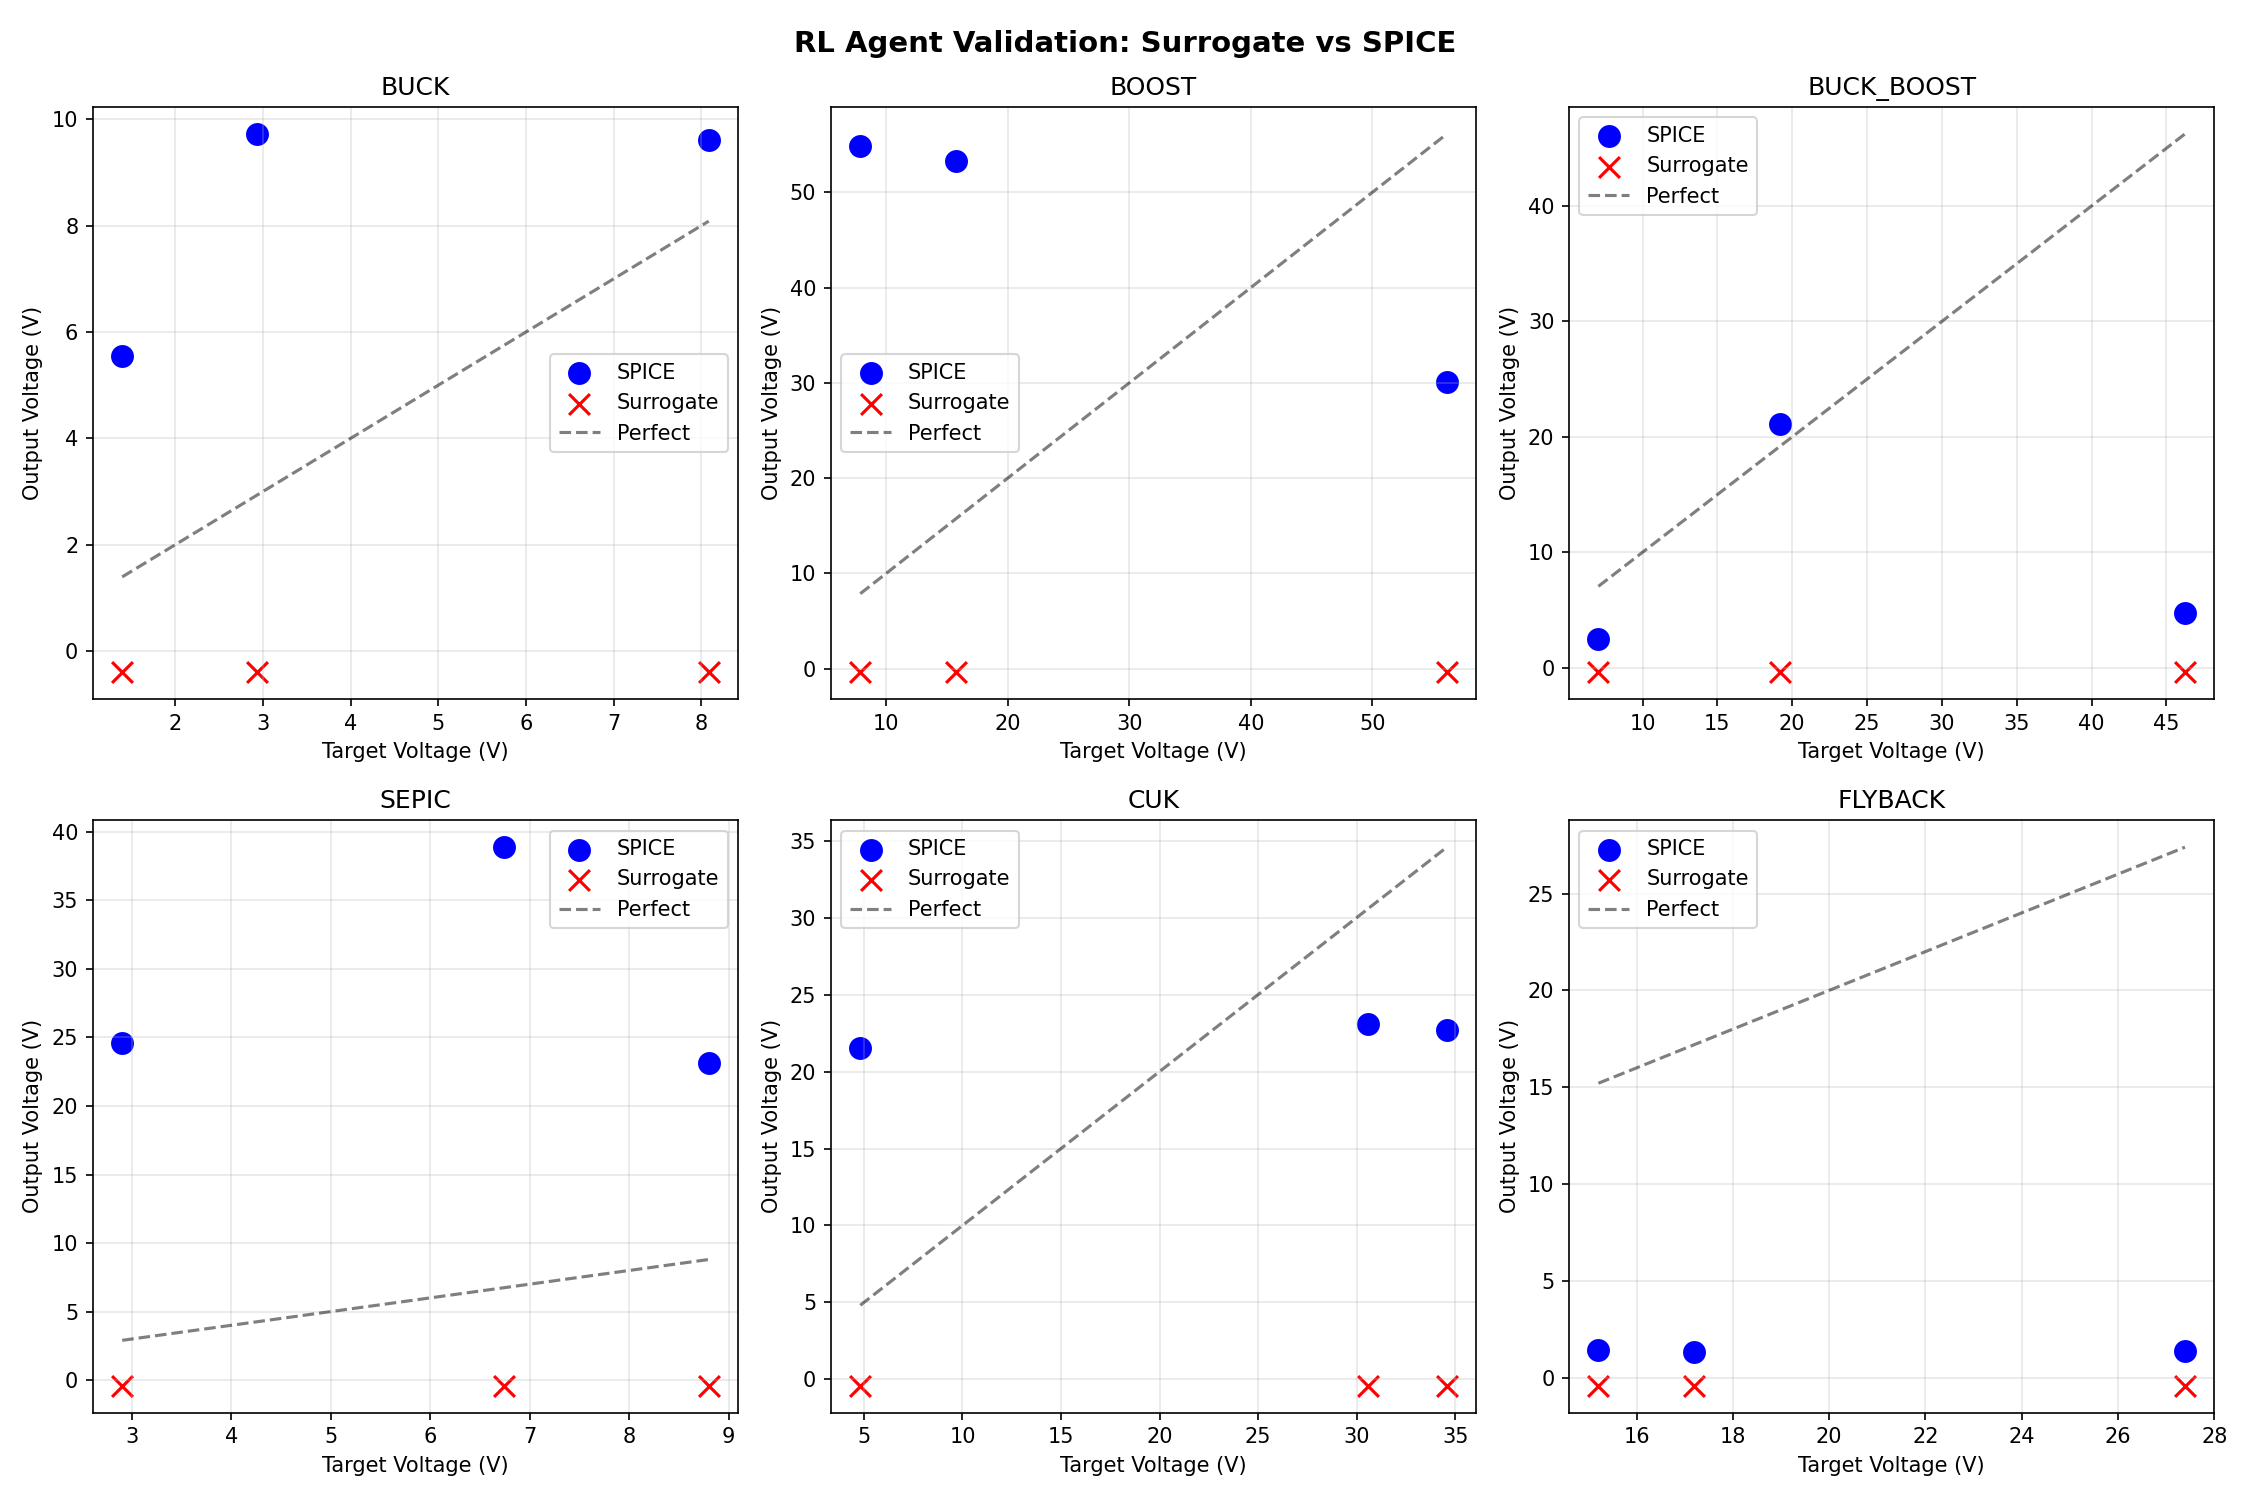
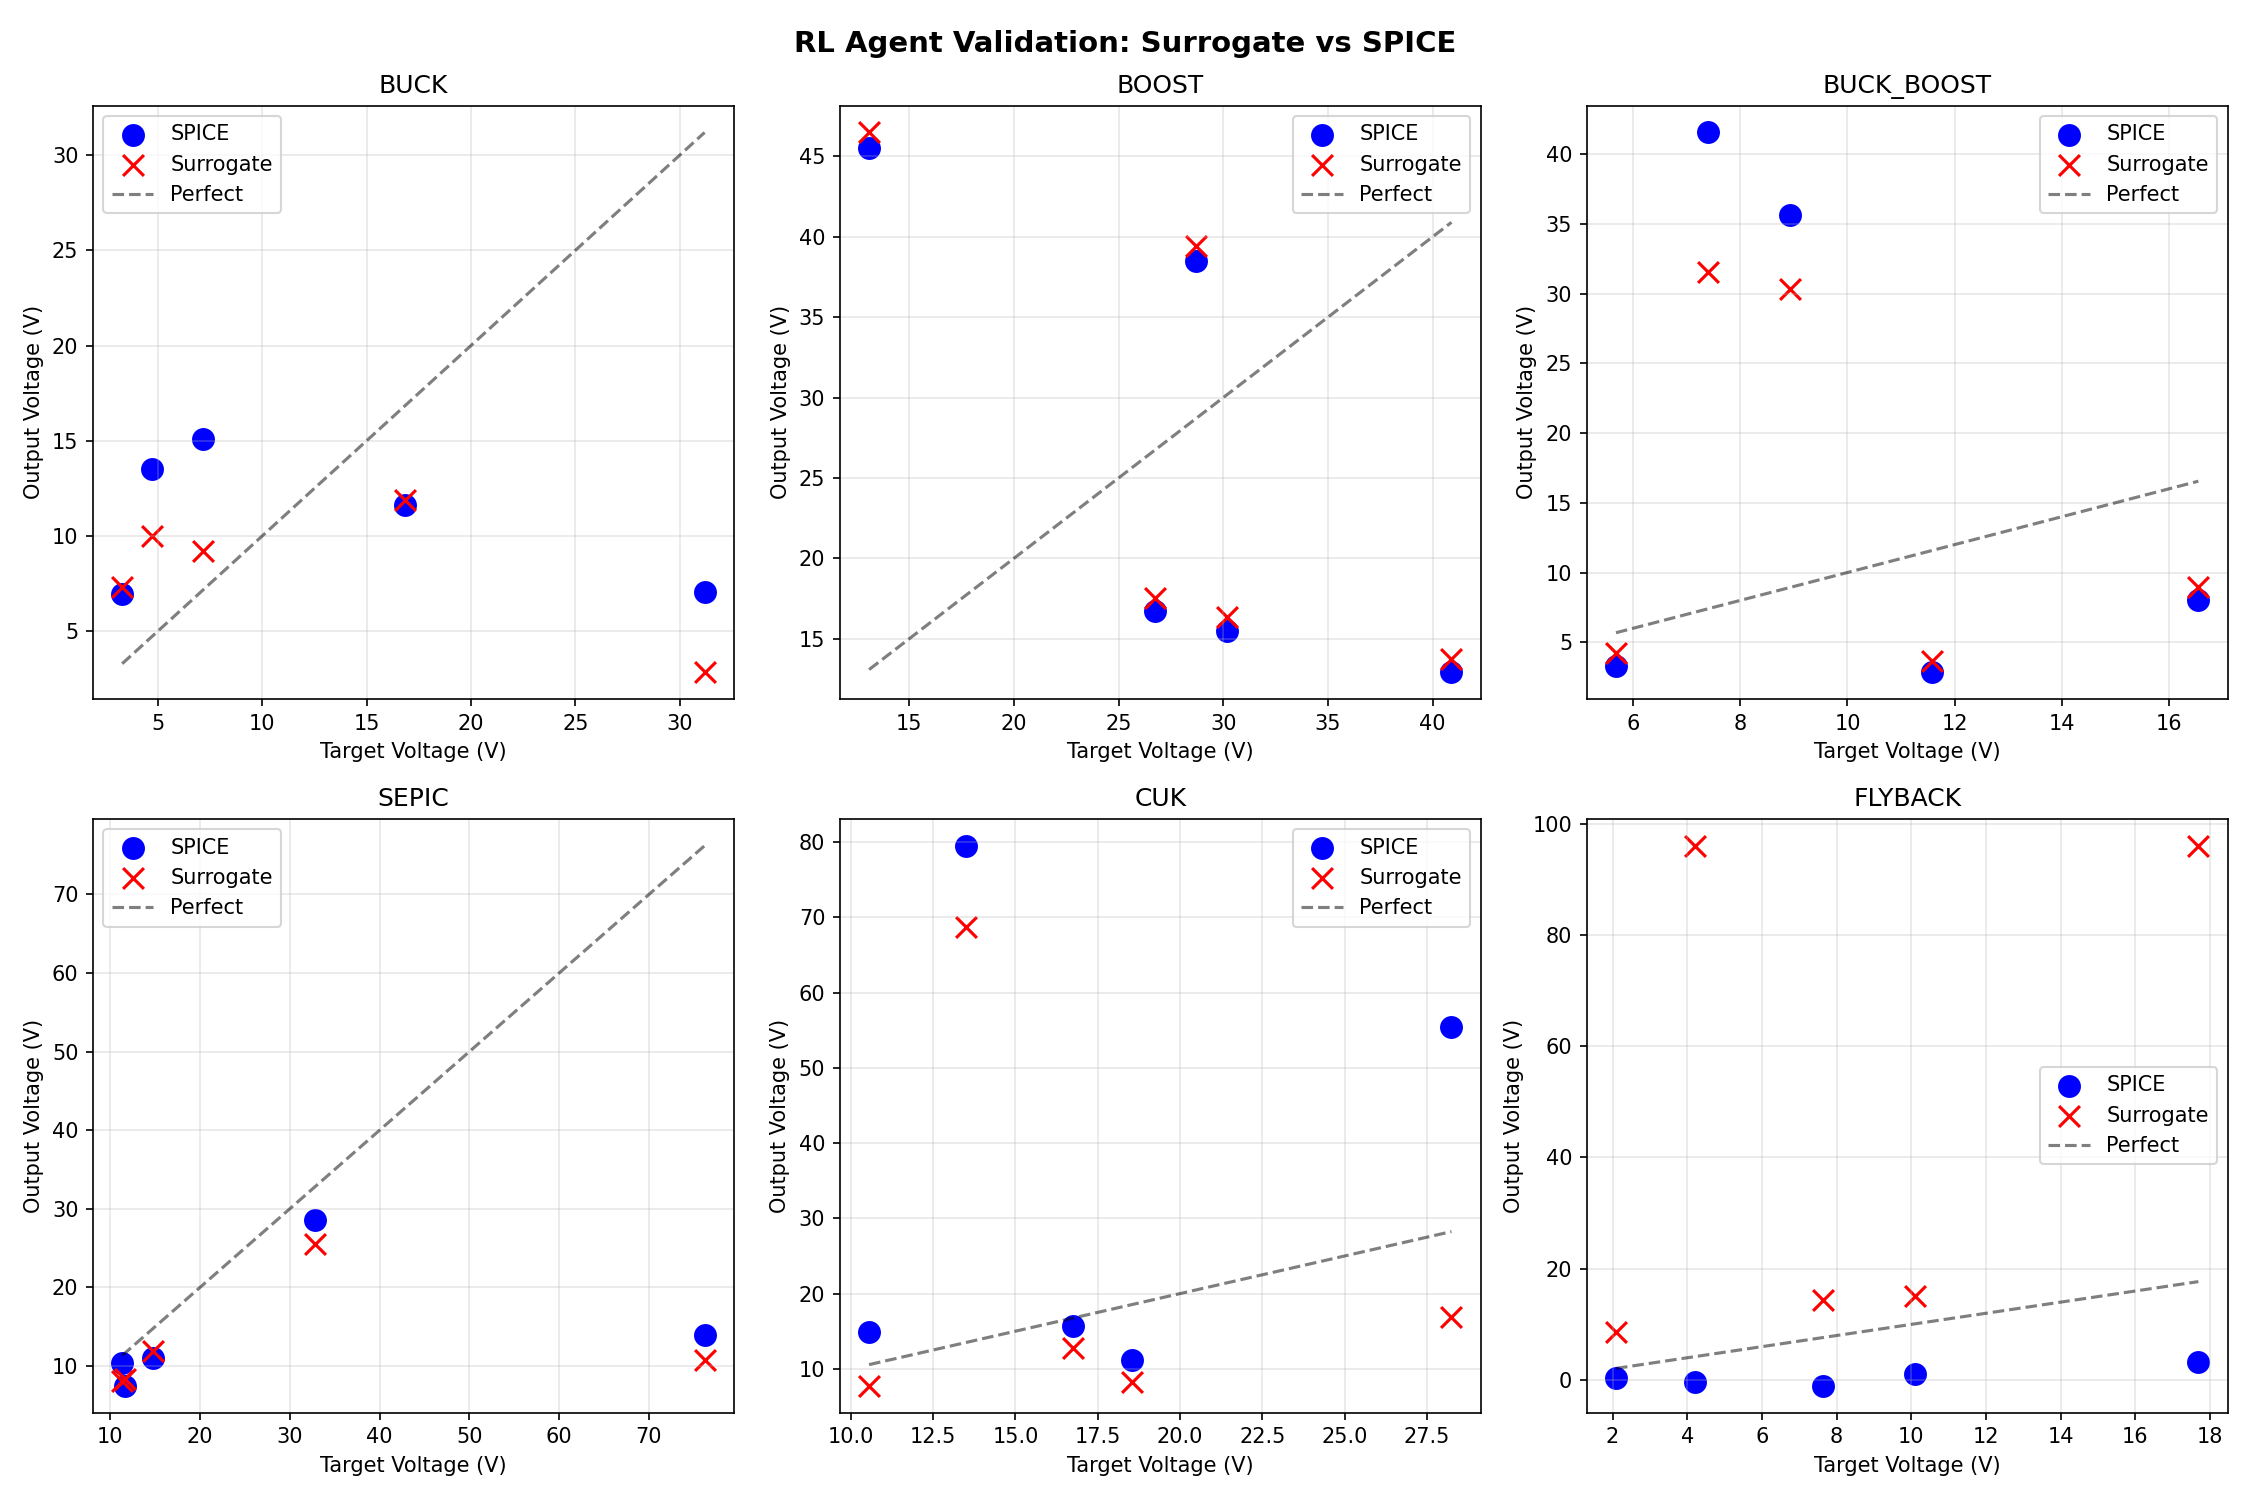
Fix voltage denormalization in surrogate and RL environment
Key fixes:
- Added compute_theoretical_vout() for physics-based voltage calculation
- Added denormalize_waveform() to convert [-1,1] to actual voltages
- Added predict_voltage() method for proper voltage predictions
- Updated RL environment _simulate() to use denormalized outputs

Now surrogate outputs match theoretical voltages:
- Buck: Vout = Vin * D
- Boost: Vout = Vin / (1-D)
- Buck-Boost/Cuk/SEPIC/Flyback: Vout = Vin * D / (1-D)

Retraining agents with fixed environment.

diff --git a/models/multi_topology_surrogate.py b/models/multi_topology_surrogate.py
@@ -99,6 +99,75 @@ class MultiTopologySurrogate(nn.Module):
         topology_map = {t: i for i, t in enumerate(cls.TOPOLOGIES)}
         return topology_map.get(topology.lower(), 0)
     
+    @staticmethod
+    def compute_theoretical_vout(v_in: torch.Tensor, duty: torch.Tensor, 
+                                  topology: str) -> torch.Tensor:
+        """
+        Compute theoretical output voltage based on topology equations.
+        
+        Args:
+            v_in: Input voltage
+            duty: Duty cycle (0-1)
+            topology: Topology name
+            
+        Returns:
+            Theoretical output voltage
+        """
+        eps = 1e-6
+        duty = duty.clamp(0.1, 0.9)  # Prevent extreme values
+        
+        if topology == 'buck':
+            return v_in * duty
+        elif topology == 'boost':
+            return v_in / (1 - duty + eps)
+        elif topology in ['buck_boost', 'cuk']:
+            return v_in * duty / (1 - duty + eps)
+        elif topology == 'sepic':
+            return v_in * duty / (1 - duty + eps)
+        elif topology == 'flyback':
+            # Assuming 1:1 turns ratio
+            return v_in * duty / (1 - duty + eps)
+        else:
+            return v_in * duty  # Default to buck
+    
+    def denormalize_waveform(self, waveform: torch.Tensor, 
+                              params: torch.Tensor,
+                              topology: str) -> torch.Tensor:
+        """
+        Denormalize waveform from [-1, 1] to actual voltage.
+        
+        Uses physics-based scaling: the mean of the denormalized waveform
+        should match the theoretical output voltage for the topology.
+        
+        Args:
+            waveform: Normalized waveform from model output
+            params: Original (non-normalized) circuit parameters
+            topology: Topology name
+            
+        Returns:
+            Waveform scaled to actual voltage values
+        """
+        # Extract V_in and duty from params (assuming non-normalized)
+        v_in = params[:, 3]  # V_in is at index 3
+        duty = params[:, 5]  # duty is at index 5
+        
+        # Compute theoretical output voltage
+        v_out_theoretical = self.compute_theoretical_vout(v_in, duty, topology)
+        
+        # The model outputs in [-1, 1] range with mean around 0
+        # We need to shift and scale to match expected voltage
+        waveform_mean = waveform.mean(dim=-1, keepdim=True)
+        waveform_centered = waveform - waveform_mean
+        
+        # Add typical ripple amplitude (5% of Vout)
+        ripple_scale = 0.05 * v_out_theoretical.unsqueeze(-1)
+        
+        # Scale centered waveform and add DC offset
+        v_out_theoretical = v_out_theoretical.unsqueeze(-1)
+        denorm_waveform = v_out_theoretical + waveform_centered * ripple_scale
+        
+        return denorm_waveform
+    
     def normalize_params(self, params: torch.Tensor) -> torch.Tensor:
         """Normalize parameters to [0, 1] range."""
         normalized = torch.zeros_like(params)
@@ -172,6 +241,38 @@ class MultiTopologySurrogate(nn.Module):
         
         waveform, _ = self.forward(params, topology_ids, normalize=normalize)
         return waveform
+    
+    def predict_voltage(self, params: torch.Tensor, topology: str) -> Tuple[torch.Tensor, torch.Tensor]:
+        """
+        Predict actual output voltage waveform (denormalized).
+        
+        This is the recommended method for getting realistic voltage predictions.
+        Uses physics-based scaling to convert model output to actual voltages.
+        
+        Args:
+            params: (batch, 6) circuit parameters [L, C, R_load, V_in, f_sw, duty]
+                   Should be in physical units (not normalized)
+            topology: topology name string
+            
+        Returns:
+            waveform: (batch, 512) - actual voltage waveform
+            v_out: (batch,) - predicted DC output voltage
+        """
+        device = params.device
+        batch_size = params.shape[0]
+        topology_id = self.get_topology_id(topology)
+        topology_ids = torch.full((batch_size,), topology_id, dtype=torch.long, device=device)
+        
+        # Get normalized waveform
+        waveform, _ = self.forward(params, topology_ids, normalize=True)
+        
+        # Denormalize to actual voltage
+        waveform = self.denormalize_waveform(waveform, params, topology)
+        
+        # Compute DC output
+        v_out = waveform.mean(dim=-1)
+        
+        return waveform, v_out
 
 
 class MultiTopologySurrogateWithMetrics(MultiTopologySurrogate):

diff --git a/rl/environment.py b/rl/environment.py
@@ -108,7 +108,10 @@ class CircuitDesignEnv:
         return np.array(features[:self.NUM_WAVEFORM_FEATURES], dtype=np.float32)
     
     def _simulate(self, params: np.ndarray) -> np.ndarray:
-        """Run circuit through surrogate model - THE FAST PART!"""
+        """Run circuit through surrogate model - THE FAST PART!
+        
+        Returns denormalized voltage waveform using physics-based scaling.
+        """
         with torch.no_grad():
             params_tensor = torch.tensor(params, dtype=torch.float32).unsqueeze(0).to(self.device)
             
@@ -117,7 +120,12 @@ class CircuitDesignEnv:
                 topology_map = {'buck': 0, 'boost': 1, 'buck_boost': 2, 'sepic': 3, 'cuk': 4, 'flyback': 5}
                 topology_id = topology_map.get(self.topology, 0)
                 topology_ids = torch.tensor([topology_id], dtype=torch.long, device=self.device)
-                waveform, _ = self.surrogate(params_tensor, topology_ids, normalize=True)
+                
+                # Use predict_voltage for denormalized output
+                if hasattr(self.surrogate, 'predict_voltage'):
+                    waveform, _ = self.surrogate.predict_voltage(params_tensor, self.topology)
+                else:
+                    waveform, _ = self.surrogate(params_tensor, topology_ids, normalize=True)
             else:
                 # Legacy single-topology model
                 waveform = self.surrogate(params_tensor, normalize=True)

diff --git a/validate_rl_with_spice.py b/validate_rl_with_spice.py
@@ -554,12 +554,15 @@ def validate_topology(topology_name: str, surrogate, n_tests: int = 5) -> List[V
         rl_params = run_rl_optimization(agent, surrogate, topology, topology_id, 
                                         target_waveform, n_steps=30)
         
-        # Get surrogate prediction
+        # Get surrogate prediction with proper denormalization
         with torch.no_grad():
             params_tensor = torch.tensor(rl_params, dtype=torch.float32).unsqueeze(0).to(DEVICE)
             topology_tensor = torch.tensor([topology_id]).to(DEVICE)
-            surrogate_wave, _ = surrogate(params_tensor, topology_tensor)
-            surrogate_wave = surrogate_wave.cpu().numpy().squeeze()
+            
+            # Use the new predict_voltage method for actual voltages
+            topo_name = topology.name.lower()
+            denorm_wave, v_out_pred = surrogate.predict_voltage(params_tensor, topo_name)
+            surrogate_wave = denorm_wave.cpu().numpy().squeeze()
         
         surrogate_vout = np.mean(surrogate_wave[-100:])  # Steady-state
         surrogate_mse = np.mean((surrogate_wave - target_waveform) ** 2)
